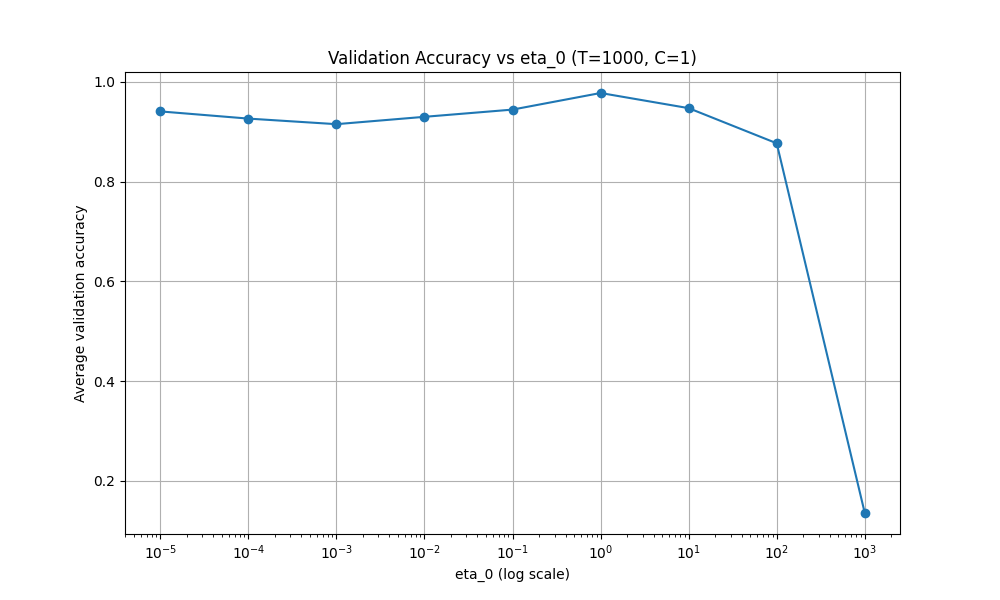
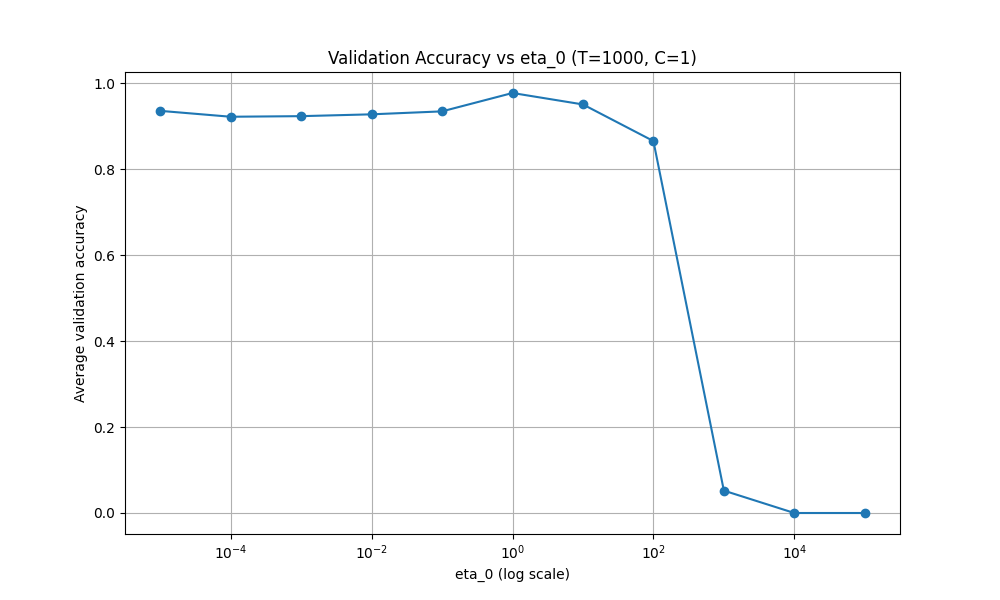
(a) done, need polish

diff --git a/skeleton_sgd.py b/skeleton_sgd.py
@@ -7,6 +7,7 @@ import numpy as np
 import numpy.random
 from sklearn.datasets import fetch_openml
 import sklearn.preprocessing
+import matplotlib.pyplot as plt
 
 """
 Please use the provided function signature for the SGD implementation.
@@ -66,6 +67,34 @@ def SGD_hinge(data, labels, C, eta_0, T):
 #################################
 
 # Place for additional code
+
+def my_accuracy_score(y_true, y_pred):
+    """
+    Computes the fraction of correctly predicted labels.
+    Args:
+        y_true: true labels (numpy array of +1/-1)
+        y_pred: predicted labels (numpy array of +1/-1)
+    Returns:
+        Accuracy as a float between 0 and 1.
+    """
+    correct = np.sum(y_true == y_pred)
+    return correct / len(y_true)
+
+def my_linear_predict(X, w):
+    """
+    Computes the vector of dot products w^T x_i for each row x_i in X.
+    Args:
+        X: shape (n_samples, n_features) — data matrix
+        w: shape (n_features,) — weight vector
+    Returns:
+        predictions: shape (n_samples,) — real-valued margins
+    """
+    n_samples = X.shape[0]
+    predictions = np.zeros(n_samples)
+    for i in range(n_samples):
+        predictions[i] = np.dot(w, X[i])
+    return predictions
+
 def cross_validate_eta0_plot(train_data, train_labels, validation_data, validation_labels, T=1000, C=1, num_runs=10):
     """
     Runs cross-validation to select eta_0 using average validation accuracy over 10 runs.
@@ -80,8 +109,7 @@ def cross_validate_eta0_plot(train_data, train_labels, validation_data, validati
         C: regularization constant (default 1)
         num_runs: number of runs to average per eta_0 (default 10)
     """
-    from sklearn.metrics import accuracy_score
-    import matplotlib.pyplot as plt
+
 
     eta0_values = [10 ** i for i in range(-5, 6)]  # 10^-5 to 10^5
     avg_accuracies = []
@@ -90,15 +118,15 @@ def cross_validate_eta0_plot(train_data, train_labels, validation_data, validati
         accs = []
         for _ in range(num_runs):
             w = SGD_hinge(train_data, train_labels, C, eta_0, T)
-            preds = np.sign(validation_data @ w)
+            preds = np.sign(my_linear_predict(validation_data,w))
 
             if np.any(np.isnan(preds)) or np.any(np.isinf(preds)):
                 continue  # skip unstable runs
 
-            acc = accuracy_score(validation_labels, preds)
+            acc = my_accuracy_score(validation_labels, preds)
             accs.append(acc)
 
-        mean_acc = np.mean(accs) if accs else float('nan')
+        mean_acc = np.mean(accs) if accs else 0.0
         avg_accuracies.append(mean_acc)
 
     # Plot results
